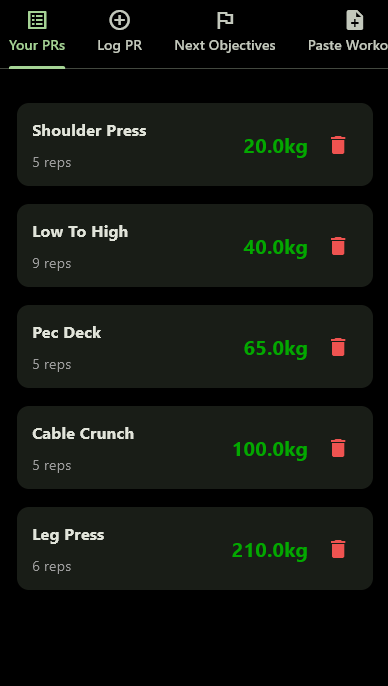
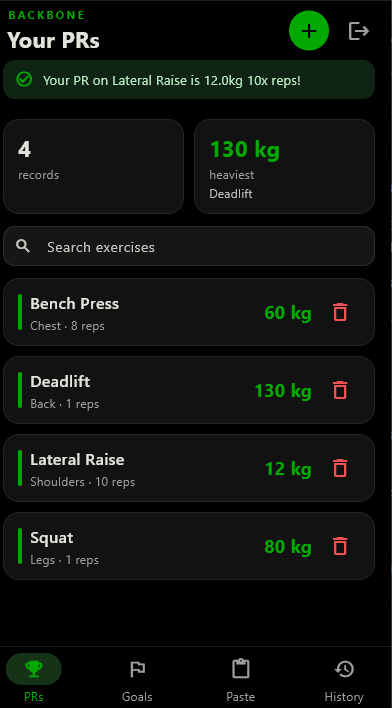
1.20a - UI Completely redesign, Login screen now saves user credentials and login directly

diff --git a/README.md b/README.md
@@ -8,7 +8,7 @@
   A workout tracker for Android and desktop where you just paste your training log and the app does the rest.
 </p>
 
-> 🚧 **Status:** in development (v1.18a). Built solo with Python and Flet.
+> 🚧 **Status:** in development (v1.17a). Built solo with Python and Flet.
 
 ## Why I built it
 
@@ -19,7 +19,7 @@ I already log my workouts as plain text in my notes, but it was tiring to figure
 <p align="center">
   <img src="images/prs.png" height="400" alt="Your PRs" />
   <img src="images/paste.png" height="400" alt="Paste Workout" />
-  <img src="images/objectives.png" height="400" alt="Next Objectives" />
+  <img src="images/goals.png" height="400" alt="Next Objectives" />
 </p>
 
 ## Features
@@ -72,7 +72,6 @@ The backend lives in its own repository, **`backbone-api`**, which also has the 
 | `core.py` | Processing workouts, logging PRs and objectives |
 | `workout_parser.py` | Parses pasted workouts into structured data |
 | `api_client.py` | HTTP client for the hosted API. This is what the app uses for accounts, exercises and PRs |
-| `database.py` | Earlier local SQLite layer. The running app no longer uses it |
 | `translations.py` | PT/EN texts |
 
 ## Roadmap
